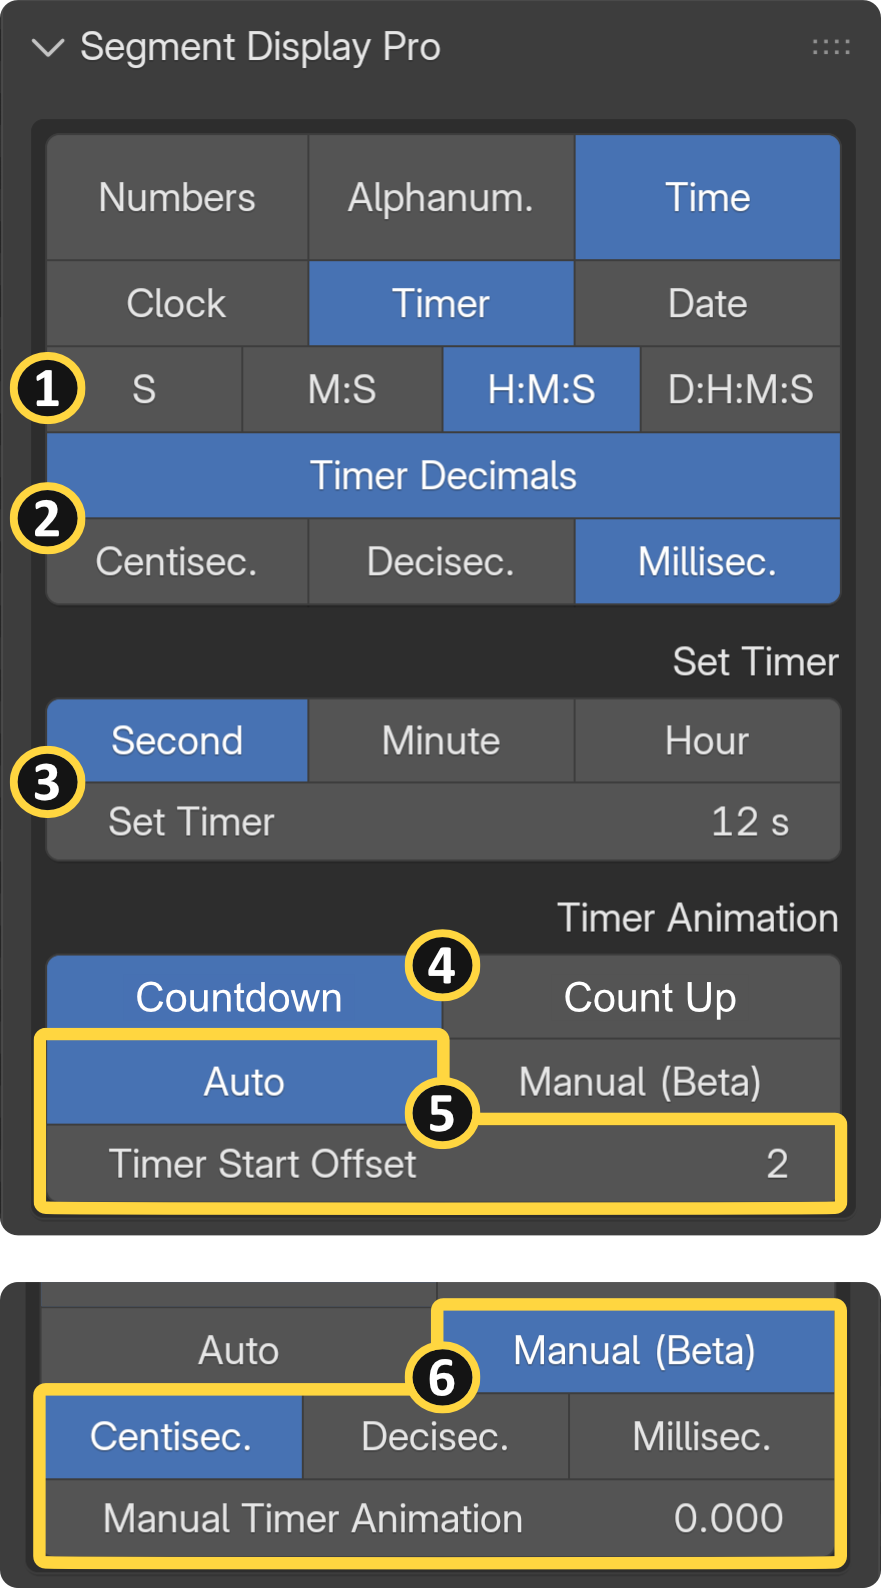
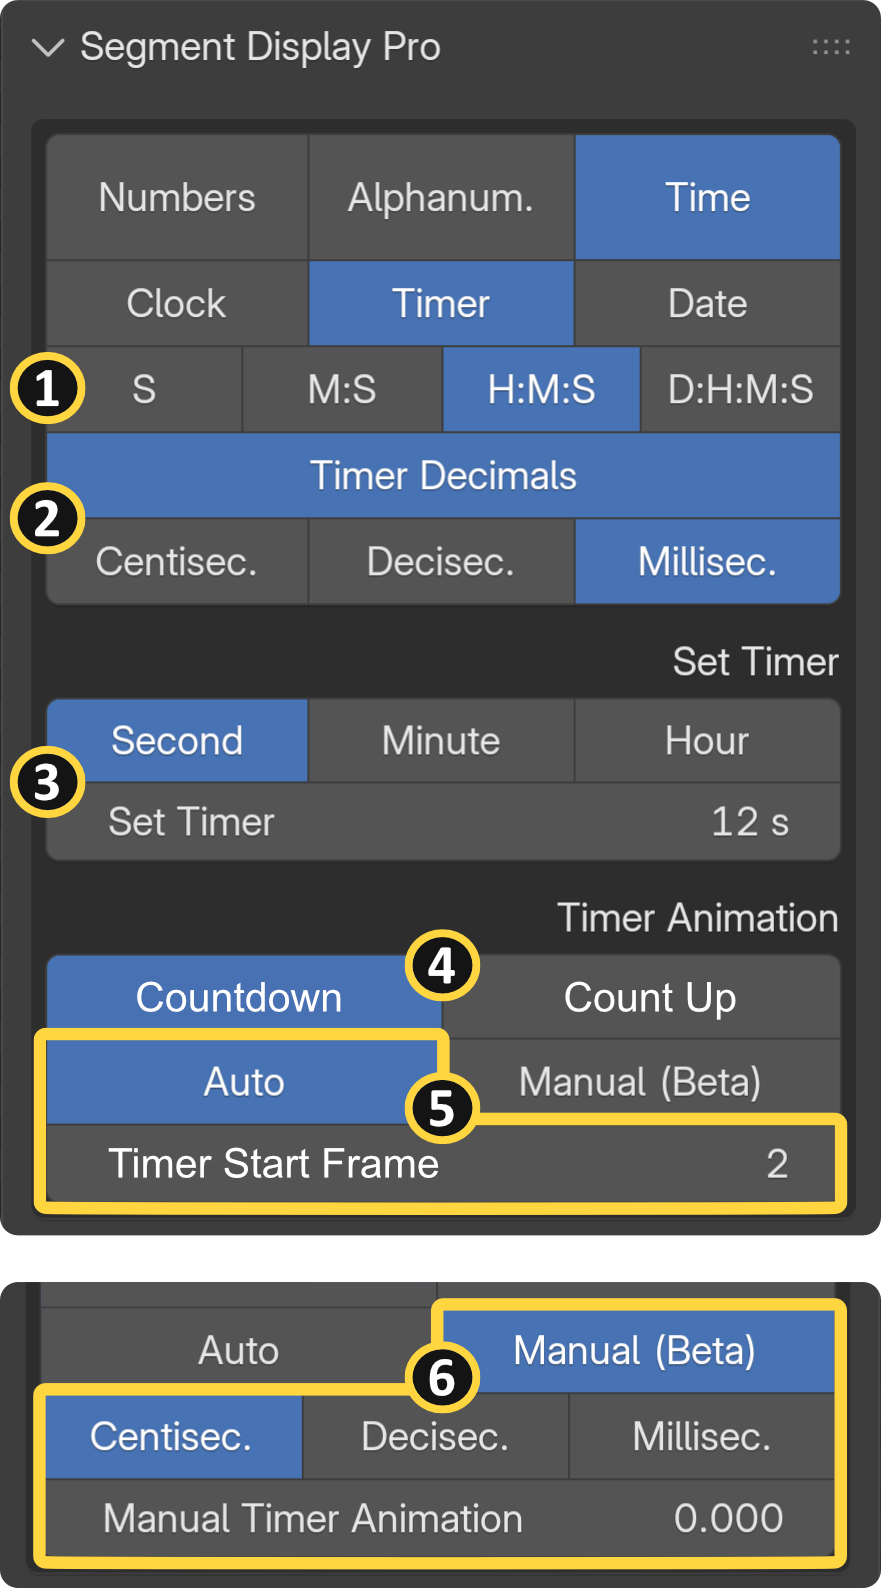
[Update] Clock Start Frame & Time images

Changed region(s): [[0.1226, 0.6788, 0.5516, 0.7406]]

diff --git a/docs/in_cat_time.md b/docs/in_cat_time.md
@@ -25,7 +25,7 @@ Build realistic digital clocks effortlessly. You can manually input the exact Ho
 
 **[5] Clock Direction:** You can reverse the flow of time by switching the animation direction between `Reverse` and `Forward`.
 
-**[6] Auto Time Animation:** The clock starts when you hit play in the scene. **Start Offset** lets you specify the exact frame number at which the animation begins playing back.
+**[6] Auto Time Animation:** The clock starts when you hit play in the scene. **Clock Start Frame** lets you specify the exact frame number at which the animation begins playing back.
 
 **[7] Manual Time Animation:** You can manually keyframe your animation in non-linear time. The multiplier menu also lets you create high-speed time lapses by scaling your input range — for example, multiplying the speed so that one input second visually represents a full minute or even an hour:
 
